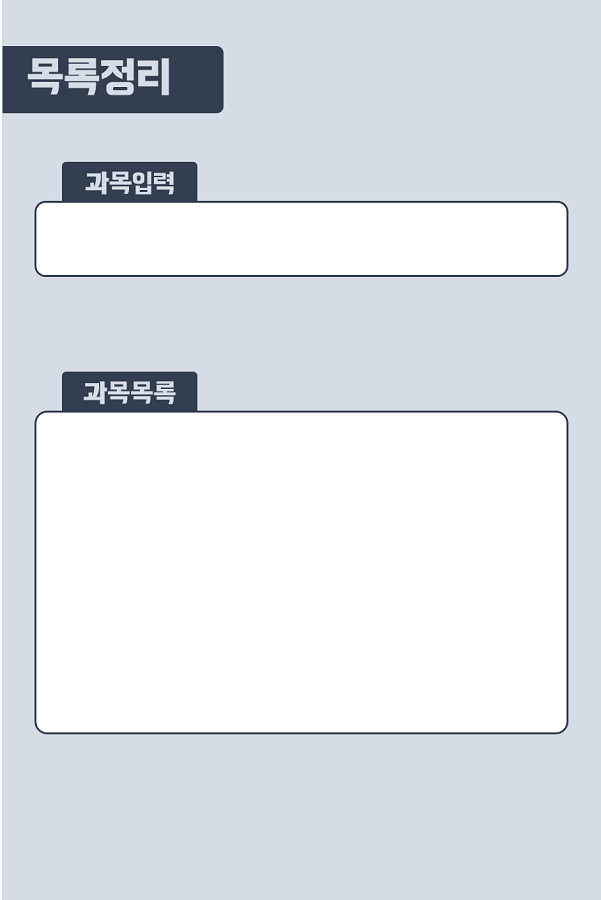
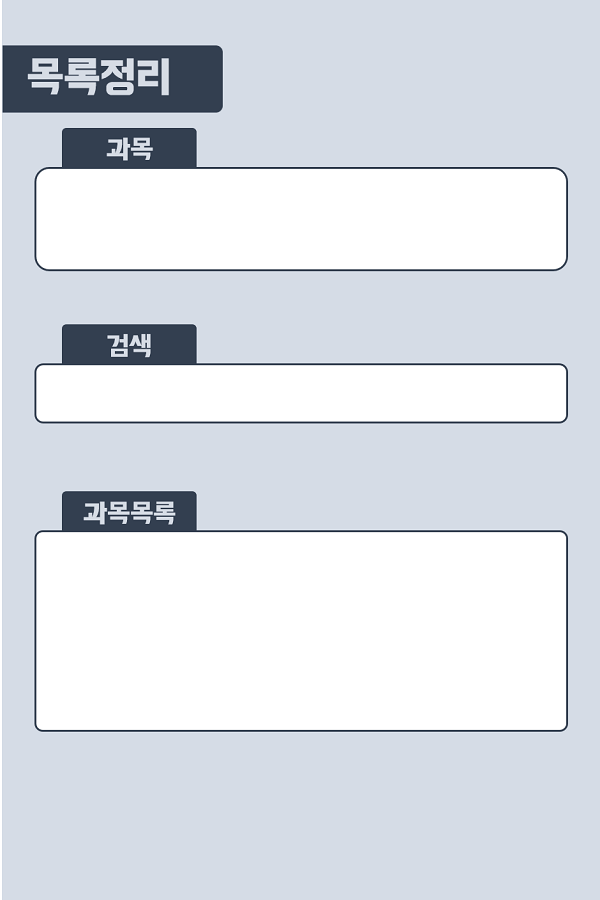
과목추가 화면 구조 변경 및 gui 수정

Changed region(s): [[0.03, 0.3422, 0.96, 0.8089], [0.06, 0.1244, 0.96, 0.3111], [0.06, 0.8089, 0.93, 0.84]]

diff --git a/mainpro/src/mainpro/SubList.java b/mainpro/src/mainpro/SubList.java
@@ -51,6 +51,8 @@ public class SubList extends JFrame{
 
 
 	// 이미지 크기 변환
+
+
 	Image ADD = AddButtonImage.getImage();
 	Image changeImgA = ADD.getScaledInstance(P_D_button_Weight, P_D_button_High, Image.SCALE_SMOOTH);
 	ImageIcon ADD_ButtonImage = new ImageIcon(changeImgA);
@@ -82,7 +84,7 @@ public class SubList extends JFrame{
 
 	// 요일
 	String[] day = {" ", "월", "화", "수", "목", "금"};
-	String[] date = {" ", "1", "2", "3", "4", "5", "6"};
+	String[] date = {" ", "1", "2", "3", "4", "5", "6", "7", "8", "9"};
 	JComboBox day1 = new JComboBox(day); //요일1
 	JComboBox date1 = new JComboBox(date); //1의 시간
 	JComboBox date2 = new JComboBox(date); //1의 시간
@@ -101,6 +103,13 @@ public class SubList extends JFrame{
 
 	private int mouseX, mouseY;
 
+	DefaultListModel model_l;
+    JList list_l = new JList(new DefaultListModel());
+    JScrollPane scroll_l = new JScrollPane(list_l) {
+	public void setBorder(Border border) { // 테두리 투명화
+
+	}
+    };
 	// 목록 보여주는 창
 	DefaultListModel model;
     JList list = new JList(new DefaultListModel());
@@ -170,8 +179,15 @@ public class SubList extends JFrame{
 		add(scroll);
 		model = (DefaultListModel)list.getModel();
 		list.setFont(fon1);
-		scroll.setBounds(60,420,505,305);
+		scroll.setBounds(60,540,505,188);
 		//
+
+
+		add(scroll_l);
+		model_l = (DefaultListModel)list_l.getModel();
+		list_l.setFont(fon1);
+		scroll_l.setBounds(60,178,505,84);
+
 
 		// 과목 입력
 
@@ -187,17 +203,17 @@ public class SubList extends JFrame{
 		add(subject_number);
 		add(human_number);
 
-		subject.setBounds(60,210,140,25);
-		subject_number.setBounds(60,245,50,25);
-		human_number.setBounds(140,245,50,25);
-		day1.setBounds(230,210,45,25);
-		date1.setBounds(280,210,45,25);
-		date2.setBounds(330,210,45,25);
-		date3.setBounds(380,210,45,25);
-		day2.setBounds(230,245,45,25);
-		date2_1.setBounds(280,245,45,25);
-		date2_2.setBounds(330,245,45,25);
-		date2_3.setBounds(380,245,45,25);
+		subject.setBounds(60,360,140,25);
+		subject_number.setBounds(60,395,50,25);
+		human_number.setBounds(140,395,50,25);
+		day1.setBounds(230,360,45,25);
+		date1.setBounds(280,360,45,25);
+		date2.setBounds(330,360,45,25);
+		date3.setBounds(380,360,45,25);
+		day2.setBounds(230,395,45,25);
+		date2_1.setBounds(280,395,45,25);
+		date2_2.setBounds(330,395,45,25);
+		date2_3.setBounds(380,395,45,25);
 		//
 
 		// 삭제 버튼 관리
@@ -224,7 +240,7 @@ public class SubList extends JFrame{
 		add(DeleteButton);
 		DeleteButton.addActionListener(new action());
 		//
-
+		
 		// 다음 버튼 관리
 		NextButton.setBounds(430, 820, Next_button_Weight, Next_button_High);
 		NextButton.setBorderPainted(false);
